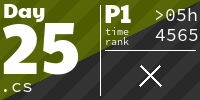
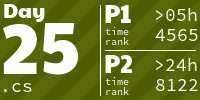
Update images

diff --git a/README.md b/README.md
@@ -10,7 +10,7 @@ Data is stored in a private repository and can be loaded via
 
 <!-- AOC TILES BEGIN -->
 <h1 align="center">
-  2023 - 47 ⭐
+  2023 - 50 ⭐
 </h1>
 <a href="ProjectTemplate/SolverPart1.cs">
   <img src=".aoc_tiles/tiles/2023/01.png" width="161px">
